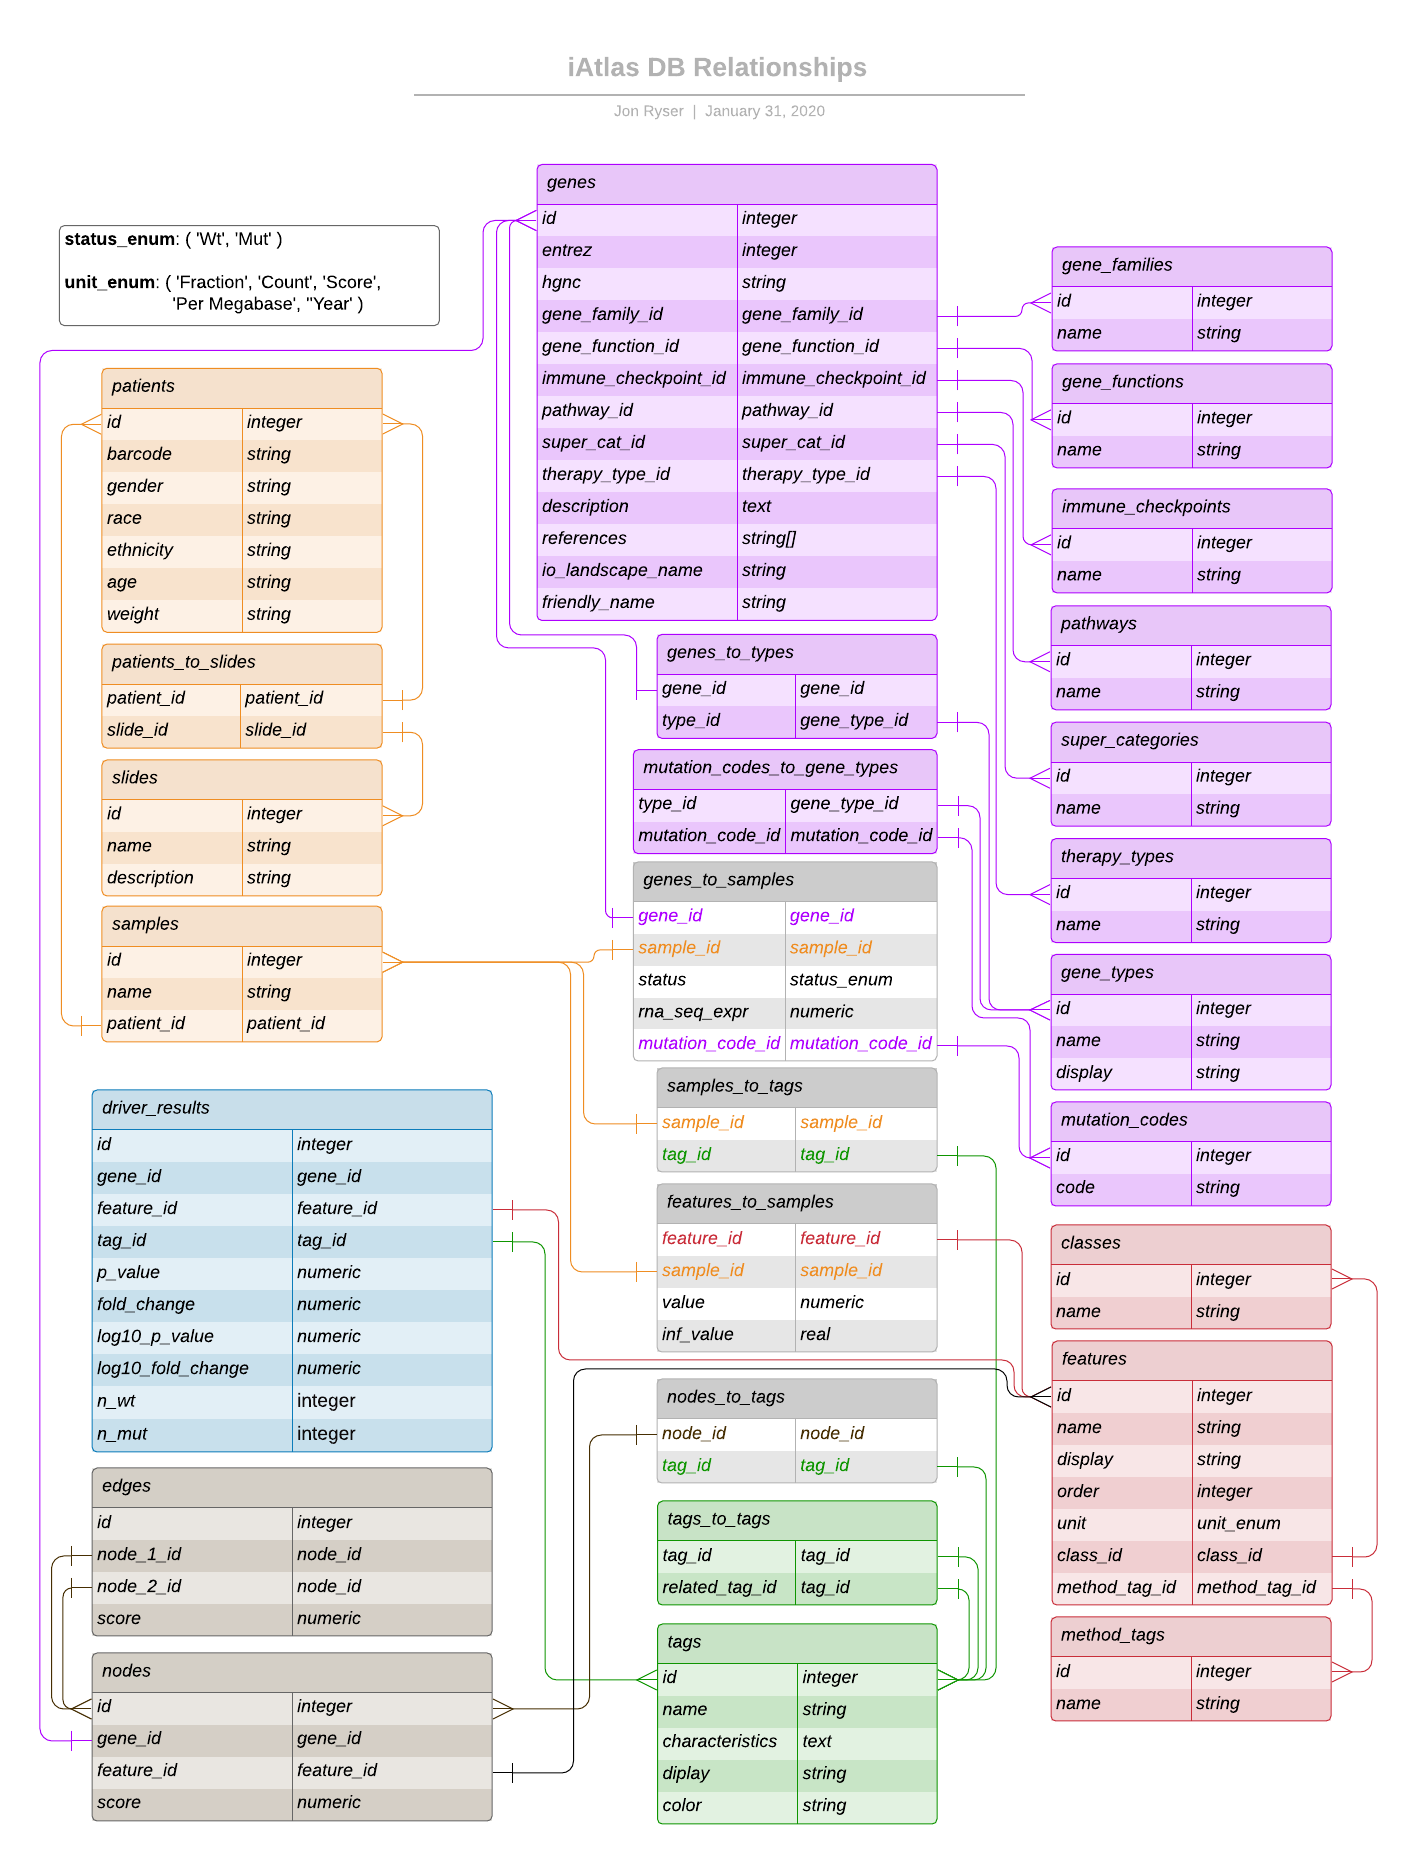
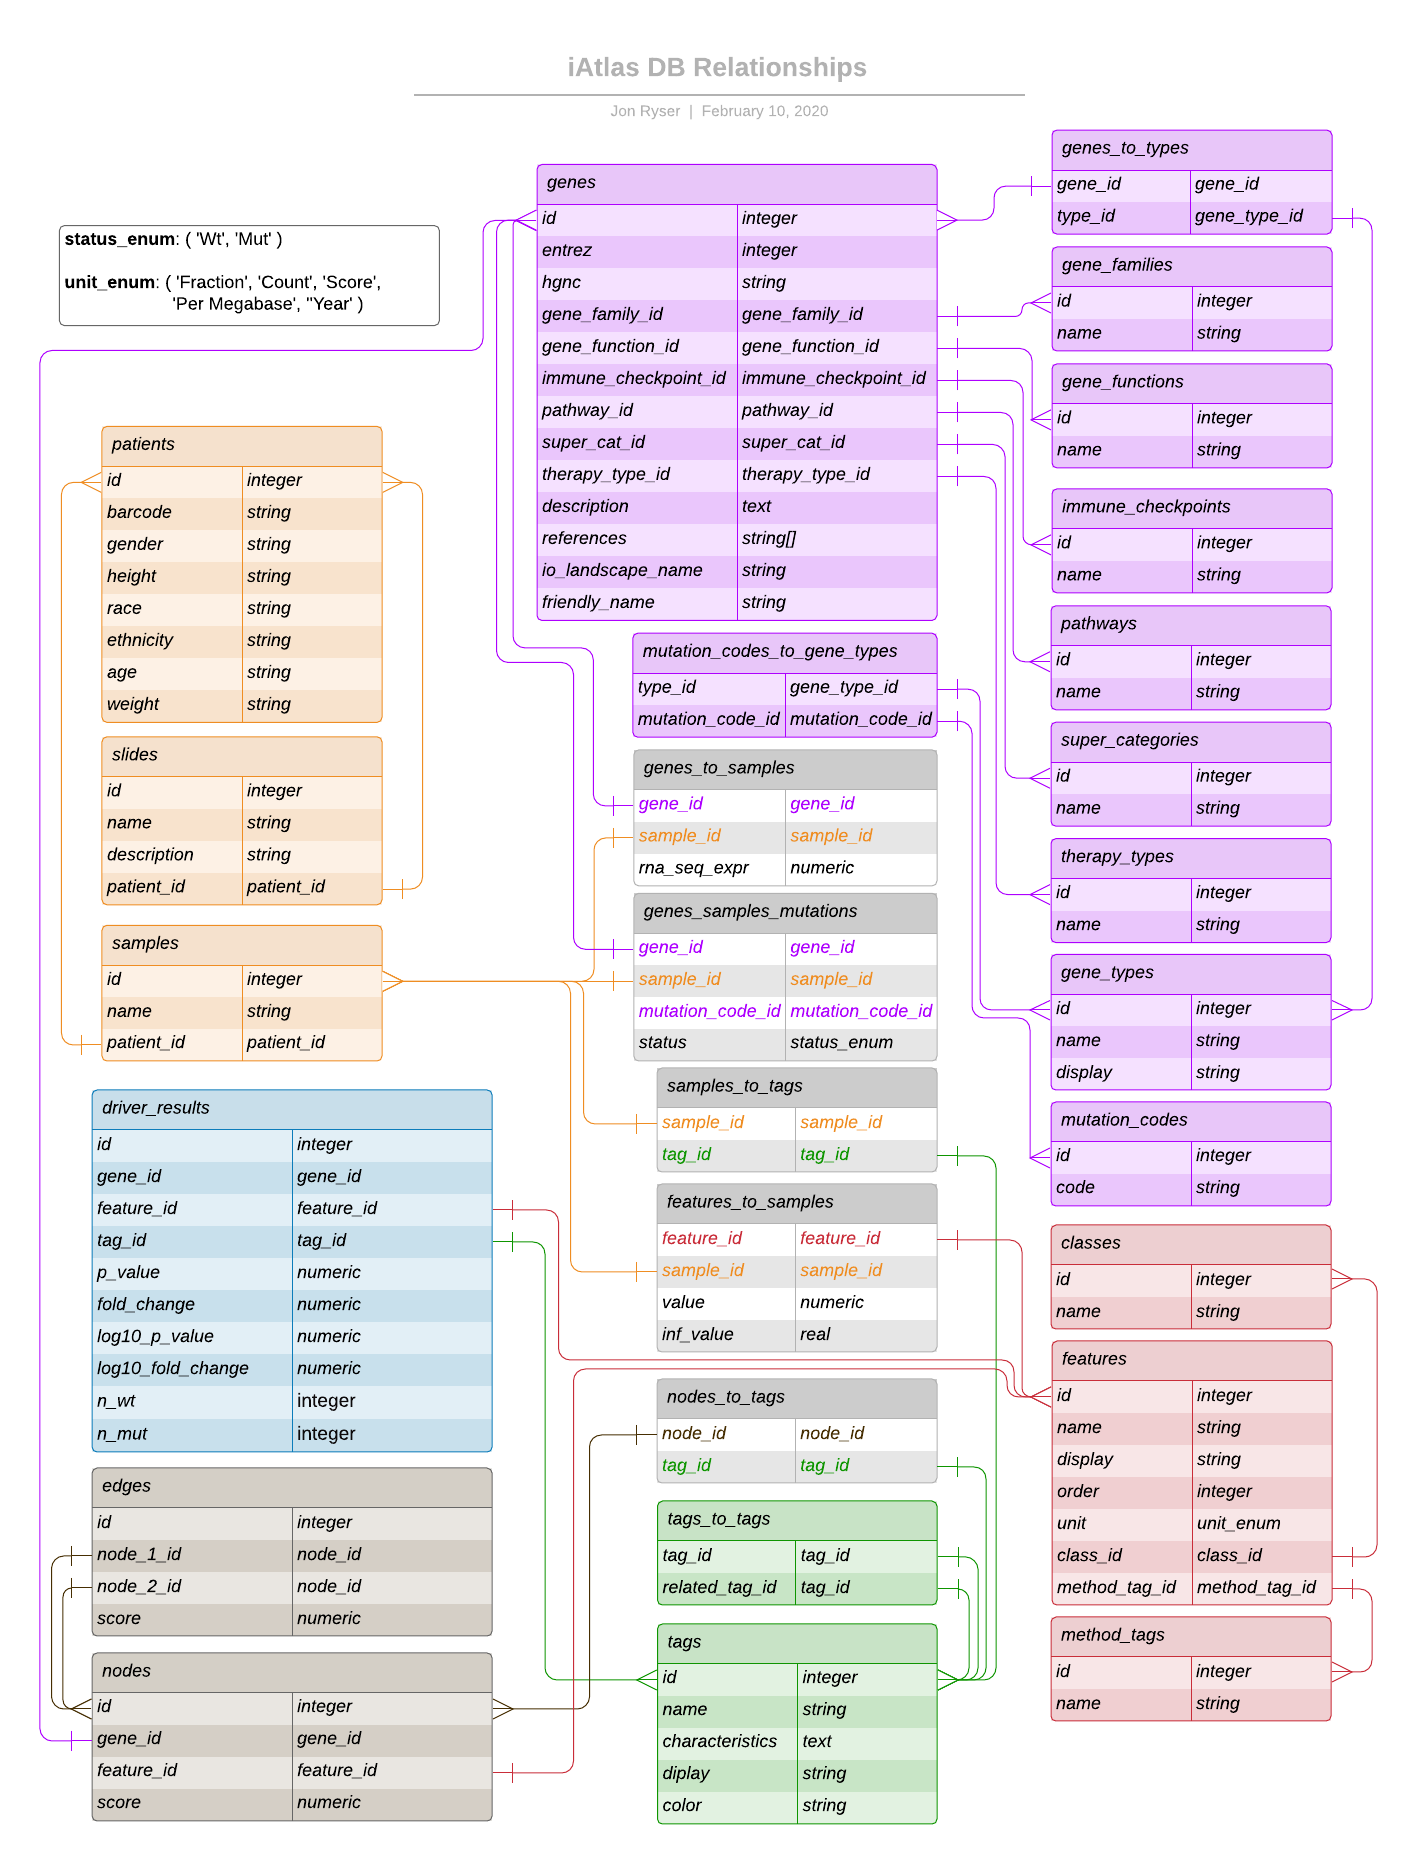
Updated the data model per current approach.

Changed region(s): [[0.0621, 0.1866, 0.2795, 0.5909], [0.4037, 0.3421, 0.7142, 0.5909], [0.7142, 0.0622, 0.9626, 0.1244]]

diff --git a/data_model/README.md b/data_model/README.md
@@ -36,10 +36,6 @@ The main tables are:
 
   Each row describes an individual patient.
 
-- ### samples
-
-  Each row describes an individual bio sample.
-
 - ### features
 
   Each row describes an individual feature.
@@ -70,7 +66,11 @@ There are many sub tables. These tables contain data that is typically related t
 
 The sub tables are:
 
-- ### [Samples](#samples) Sub Tables
+- ### [Patients](#patients) Sub Tables
+
+  - ### samples
+
+    Each row describes an individual bio sample.
 
   - #### slides
 
@@ -93,6 +93,10 @@ The sub tables are:
   - #### immune_checkpoints
 
     Each row describes an individual immune checkpoint.
+
+  - #### node_types
+
+    Each row describes an individual node type.
 
   - #### mutation_codes
 
@@ -120,29 +124,27 @@ The sub tables are:
 
     Each row describes an individual method tag.
 
-- ### [Nodes](#nodes) Sub Tables
-
-  - #### node_names
-
-    Each row describes an individual node name.
-
 ## Relational (Join) Tables
 
 Much of the data has a one to many or many to many relationship. Rather than have that data expressed in the main tables or sub tables as array structures or similar which would be challenging (and slow) to access, these relationships are kept in join tables that simply hold the ids of the related data. This also makes it indexable as fast integers.
 
 The relational (join) tables are:
 
-- ### patients_to_slides
-
-  Each row describes a patient to slide relationship.
-
-  For example, "Patient A" may be related to "Slide 1". That would be one row. "Patient B" may also be related to "Slide 1". That would be an additional row.
-
 - ### genes_to_samples
 
   Each row describes a gene to sample relationship.
 
   For example, "Gene A" may be related to "Sample A". That would be one row. "Gene B" may also be related to "Sample A". That would be an additional row. "Gene A" may also be related to "Sample B". That would be yet again another row, and so on.
+
+  Each row also holds the RNA Sequence Expression of this realtionship.
+
+- ### genes_samples_mutations
+
+  Each row describes a gene to sample to mutation code relationship.
+
+  For example, "Gene A" may be related to "Sample A" with mutation code "AAA". That would be one row. "Gene A" may also be related to "Sample A" with mutation code "BBB". That would be an additional row. "Gene A" may also be related to "Sample B" with mutation code "AAA". That would be yet again another row, and so on.
+
+  Each row also holds the status of this realtionship, beign either "Wt" (Wild Type) or "Mut" (Mutant).
 
 - ### genes_to_types
 
@@ -160,8 +162,8 @@ The relational (join) tables are:
 
   Each row describes a tag to tag relationship. This table is for adding semantic information to tags. It can be used to group tags. It is useful to think of it in this way:
 
-  * `related_tag` *has-a* `tag`
-  * e.g. `TGCA` *has-a* `ACC`
+  - `related_tag` _has-a_ `tag`
+  - e.g. `TGCA` _has-a_ `ACC`
 
   For example, "Good Tag" may be related to "Parent Tag". That would be one row. "Great Tag" may also be related to "Parent Tag". That would be an additional row. "Good Tag" may also be related to "Sub Tag". That would be yet again another row, and so on.
 
@@ -211,6 +213,8 @@ The following are descriptions of each field in each table. This should be exhau
 
   - `io_landscape_name` - A string that represents the genes specific io landscape name. (a string)
 
+  - `node_type_id` - The database identifier of the node type associated with this gene. Relates to the `id` field in a row in the [node_types](#node_types) sub table. (an integer)
+
   - `pathway_id` - The database identifier of the pathway associated with this gene. Relates to the `id` field in a row in the [pathways](#pathways) sub table. (an integer)
 
   - `super_cat_id` - The database identifier of the super category associated with this gene. Relates to the `id` field in a row in the [super_categories](#super_categories) sub table. (an integer)
@@ -245,11 +249,11 @@ The following are descriptions of each field in each table. This should be exhau
 
   - `name` - The unique name of the immune checkpoint. (a string)
 
-- [mutation_codes](#mutation_codes)
+- [node_types](#node_types)
 
-  - `id` - A unique database identifier for the specific mutation code. This is an integer that is generated by the database. (an integer)
+  - `id` - A unique database identifier for the specific node type. This is an integer that is generated by the database. (an integer)
 
-  - `code` - The unique code of the mutation code. (a string)
+  - `name` - The unique code of the node type. (a string)
 
 - [pathways](#pathways)
 
@@ -291,6 +295,8 @@ The following are descriptions of each field in each table. This should be exhau
 
   - `gender` - The gender of the patient. (a string)
 
+  - `height` - The height of the patient. (a string)
+
   - `race` - The race of the patient. (a string)
 
   - `age` - The age of the patient. (a string)
@@ -303,29 +309,35 @@ The following are descriptions of each field in each table. This should be exhau
 
   - `name` - The unique name or barcode for the specific sample. (a string)
 
-  - `patient_id` - The unique patient id for the specific sample. This is the patient that the sample is derived from.
+  - `patient_id` - The unique patient id for the specific sample. This is the patient that the sample is derived from. Relates to the `id` field in a row in the [patients](#patients) main table. (an integer)
 
-  - `patient_id` - The unique patient id for the specific sample. Relates to the `id` field in a row in the [patients](#patients) sub table. (an integer)
+- [slides](#slides)
 
-- [patients_to_slides](#patients_to_slides)
+  - `id` - A unique database identifier for the specific sample. This is an integer that is generated by the database. (an integer)
 
-  - `patient_id` - The database identifier of a specific patient. Relates to the `id` field in a row in the [patients](#patients) main table. (an integer)
+  - `name` - The unique name of the slide. The name should be built according to the schema define at [https://docs.gdc.cancer.gov/Encyclopedia/pages/TCGA_Barcode/](https://docs.gdc.cancer.gov/Encyclopedia/pages/TCGA_Barcode/). (a string)
 
-  - `slide_id` - The unique slide id for the specific sample. This may be used to access the sample image. (a string)\
-    ie: `https://quip1.bmi.stonybrook.edu:443/camicroscope/osdCamicroscope.php?tissueId={tissue_id}`\
-    Relates to the `id` field in a row in the [slides](#slides) sub table. (an integer)
+  - `description` - A text description of the sample. (a string)
+
+  - `patient_id` - The database identifier of a specific patient. This is the patient the sample is derived from. Relates to the `id` field in a row in the [patients](#patients) main table. (an integer)
 
 - [genes_to_samples](#genes_to_samples)
 
   - `gene_id` - The database identifier of a specific gene. Relates to the `id` field in a row in the [genes](#genes) main table. (an integer)
 
-  - `sample_id` - The database identifier of a specific sample. Relates to the `id` field in a row in the [samples](#samples) main table. (an integer)
+  - `sample_id` - The database identifier of a specific sample. Relates to the `id` field in a row in the [samples](#samples) sub table. (an integer)
+
+  - `rna_seq_expr` - The RNA Sequence Expresion of the gene and sample in this relationship. (a numeric value)
+
+- [genes_samples_mutations](#genes_samples_mutations)
+
+  - `gene_id` - The database identifier of a specific gene. Relates to the `id` field in a row in the [genes](#genes) main table. (an integer)
+
+  - `sample_id` - The database identifier of a specific sample. Relates to the `id` field in a row in the [samples](#samples) sub table. (an integer)
 
   - `mutation_code_id` - The database identifier of a specific mutation code. Relates to the `id` field in a row in the [mutation_codes](#mutation_codes) sub table. (an integer)
 
   - `status` - The status of the gene in this relationship. May be a value from the [status_enum](#status_enum). (a status_enum)
-
-  - `rna_seq_expr` - The RNA Sequence Expresion of the gene and sample in this relationship. (a numeric value)
 
 - [driver_results](#driver_results)
 
@@ -397,13 +409,13 @@ The following are descriptions of each field in each table. This should be exhau
 
 - [samples_to_tags](#samples_to_tags)
 
-  - `sample_id` - The database identifier of a specific sample. Relates to the `id` field in a row in the [samples](#samples) main table. (an integer)
+  - `sample_id` - The database identifier of a specific sample. Relates to the `id` field in a row in the [samples](#samples) sub table. (an integer)
 
   - `tag_id` - The database identifier of a specific tag. Relates to the `id` field in a row in the [tags](#tags) main table. (an integer)
 
 - [features_to_samples](#features_to_samples)
 
-  - `sample_id` - The database identifier of a specific sample. Relates to the `id` field in a row in the [samples](#samples) main table. (an integer)
+  - `sample_id` - The database identifier of a specific sample. Relates to the `id` field in a row in the [samples](#samples) sub table. (an integer)
 
   - `feature_id` - The database identifier of a specific feature. Relates to the `id` field in a row in the [features](#features) main table. (an integer)
 
